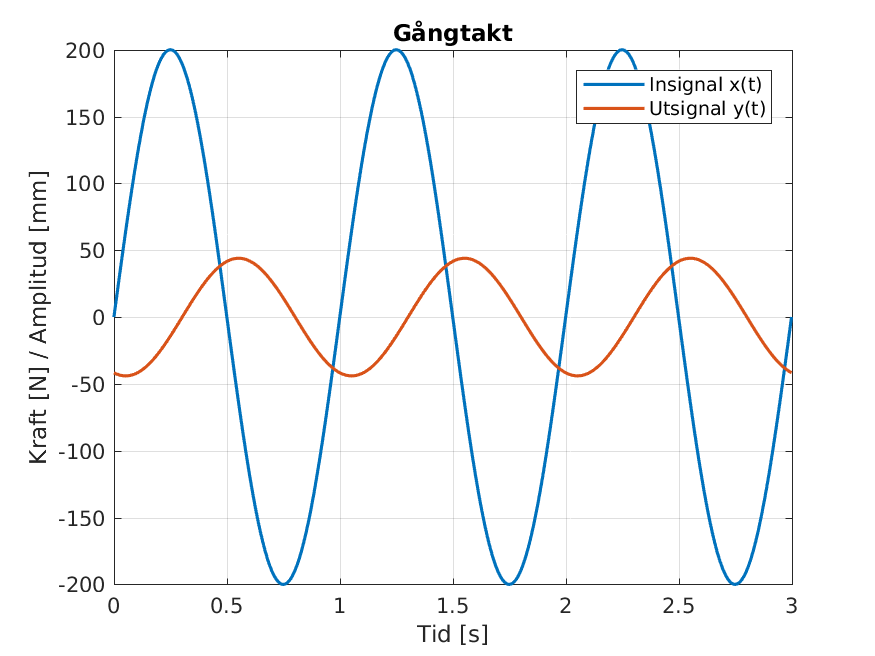
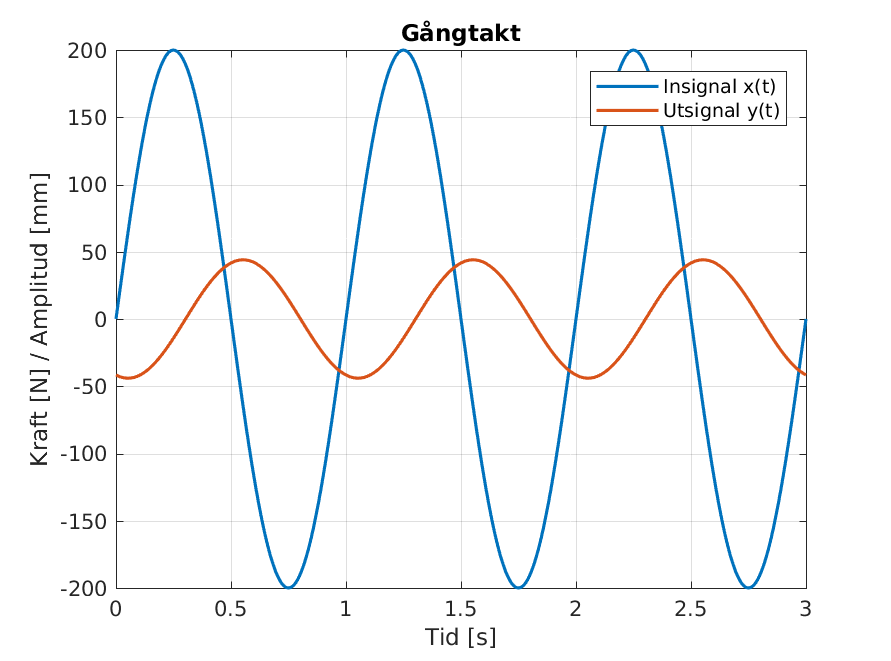
Amplitudskit, sinus, diskussion

diff --git a/kapitel/2.tex b/kapitel/2.tex
@@ -97,7 +97,7 @@ Enhetsimpulsen är noll för alla värden $t\ne 0$. Vid $t = 0$ är den oändlig
 Impulssvaret $h(t)$ är utsignalen då ett system tar emot en enhetsimpuls som insignal. Denna kan räknas ut genom att inverstransformera systemfunktionen $H(s)$. Vi kommer återigen att använda tabeller för dessa beräkningar då integralerna är jobbiga att räkna ut. Man får istället problemet att skriva om uttrycken så att de matchar något i tabellen. Då det finns tre uppsättningar av poler kommer implussvaret för dessa räknas ut separat.
 
 \begin{itemize}
-    \item Vid 2 skilda reella poler kan vi faktorisera rötterna i nämnarpolynomet och partialbråksuppdela för att hitta en lämplig inverstransform.
+    \item Vid två skilda reella poler kan vi faktorisera rötterna i nämnarpolynomet och partialbråksuppdela för att hitta en lämplig inverstransform.
     
     $$H(s)=\frac{1}{m} \cdot \frac{1}{s^2+\frac{cs}{m}+\frac{k}{m}}=\Bigg/ \,\alpha=\frac{c}{2m}\,\,,\,\,\, \omega_0=\sqrt{\bigg(\frac{c}{2m}\bigg)^2-\frac{k}{m}} \,\,\Bigg/$$
     $$=\frac{1}{m} \cdot \frac{1}{\big(s+\alpha-\omega_0\big)\big(s+\alpha+\omega_0\big)}  = \, \frac{1}{2m\omega_0} \Bigg(\frac{1}{s+\alpha-\omega_0}-\frac{1}{s+\alpha+\omega_0}\Bigg)$$
@@ -297,22 +297,25 @@ Vi ser att systemet släpper igenom låga frekvenser och dämpar höga frekvense
 Då vi har olika enheter på insignal och utsignal, en kraft respektive en längd, är det svårt att tolka hur mycket som faktist förstärks eller dämpas vid en viss vinkelfrekvens (\textbf{detta behvöer inte nämnas}). Vi kan utifrån grafen se att gränsvinkelfrekvensen är ungefär $2.5$ rad/s, alltså då:
 $$\big|H(\omega)\big|=\dfrac{max\Big\{\big|H(\omega)\big|\Big\}}{\sqrt{2}}\approx \frac{7}{\sqrt{2}} \approx 5$$
 \newpage
-\textbf{Ehhhh förslag: hoppa över de två första graferna och ta bara den med c. Anledning? Det finns inte så mycket att prata om som inte redan sagts samt sidobrist}
-
+\subsubsection{Variation av amplitudkaraktäristiken}
+Vi ska nu undersöka hur amplitudkaraktäristiken beter sig med olika parameteruppsättningar. Först kollar vi vad som händer då massan ändras.
 \begin{figure}[H]
     \centering
     \includegraphics[scale=0.9]{bilder/amplitudkaraktaristik_variation_m}
     \caption{Amplitudkaraktäristik med varierande massa}
     \label{fig:amplitudkaraktaristik_variation_m}
 \end{figure}
+Vi ser att en tyngre massa leder en skarpare kurva. Vill man ha högre amplituder vid låga och normala frekvenser ska man ha en stor vikt. Detta verkar rimligt då en större person är svårare att accelerera men svänger mer då den får upp fart.
 
 \newpage
+Sedan prövas i figuren nedan vad som händer med amplitudkaraktäristiken då fjäderkonstanten ändras mellan låga och högra värden. 
 \begin{figure}[H]
     \centering
     \includegraphics[scale=0.9]{bilder/amplitudkaraktaristik_variation_k}
     \caption{Amplitudkaraktäristik med varierande fjäderkonstant}
     \label{fig:amplitudkaraktaristik_variation_k}
 \end{figure}
+Här ser vi hur fjäderkonstanten har en direkt koppling till amplituden vid låga frekvenser. Ju lösare linan är spänd desto högre vill linan svänga. Detta jämnas ut vid cirka  $5$ rad/s då fjäderkonstanten inte längre verkar spela någon roll. Detta är på grund av lägesförändringen blir väldigt liten vid hög frekvens och fjädern motverkar ju läget.
 
 \newpage
 Härnäst kommer vi hur se hur amplitudkaraktäristiken beter sig när dämpningskonstanten ändras. Igen väljer vi att halvera och dubblera konstanten vilket visas i figuren nedan.  
@@ -327,13 +330,13 @@ Vi ser generellt att en högre dämpningskonstant dämpar mer för alla frekvens
 \newpage
 \subsection{Faskaraktäristik}
 Faskaraktäristiken beskriver hur mycket systemet förskjuter en signal i fas beroende på frekvensen. Denna kan tas fram genom att ta argumentet för frekvensfunktionen enligt:
-$$arg\big\{H(w)\big\}=\arg\big\{1\big\}-\arg\big\{k-m\omega^2+jc\,\omega\big\}$$
-$$=\begin{cases}
+\\$$\begin{aligned}arg\big\{H(w)\big\}=\arg\big\{1\big\}-\arg\big\{k-m\omega^2+jc\,\omega\big\}
+=\begin{cases}
 -\arctan\bigg(\dfrac{c\,\omega}{k-m\omega^2}\bigg), & \text{om } k-m\omega^2 > 0  \\\\
 -\arctan\bigg(\dfrac{c\,\omega}{k-m\omega^2}\bigg)-\pi, & \text{om } k-m\omega^2 < 0 \\\\ 
 -\dfrac{\pi}{2}, & \text{om } k-m\omega^2 = 0 
-\end{cases}$$
-I grafen nedan visas faskaraktäristiken för vår standardparameteruppsättning.
+\end{cases}\end{aligned}$$
+\\I grafen nedan visas faskaraktäristiken för vår standardparameteruppsättning.
 \begin{figure}[H]
     \centering
     \includegraphics[scale=0.75]{bilder/faskaraktaristik}
@@ -351,23 +354,55 @@ När ett LTI-system matas med en godtycklig sinusfunktion som insignal, till exe
 $$x(t)=A\sin(\omega_0t)$$
 får vi en utsignal $y(t)$ som kan beräknas med hjälp av frekvensfunktionen $H(\omega)$ enligt:
 $$y(t)=A\,\big|H(\omega_0)\big|\sin\big(\omega_0t+\arg\big\{H(\omega_0)\big\}\big)$$
-Man får alltså att utsignalen är en amplitudskalad för fastförskjuten verision av insignalen.
+Man får alltså att utsignalen är en amplitudskalad och fastförskjuten verision av insignalen.
 Detta gör det väldigt lätt att beräkna utsignalen om insignalen är en sinusfunktion och frekvensfunktion är bestämd. Vi ska nu se hur vårt system reagerar på olika typer av sinusfunktioner med olika frekvenser.
 
-
---------------------------------------------------------------------
-
-analysera två stationära sinussignaler  med, för just ert system, väl valda/motiverade och intressanta frekvenser.
-
-Mina förslag: resonans och en vanligt gångtakt hos en lindansare (vi får pröva och se på videos). Alt. (resonans + hög frek + låg frek)
-\textbf{Ev. borde vil kolla på stegsvar med skalad input typ 10 eller 100 N in. 1 N är ju typ ingenting}
-
-Fråga Lasse?
-\subsubsection{Resonans}
-oh no vårt system har ingen responansfrekvens för att det är att lågpassfilter, man kan ändra detta genom att ändra systemparamterarna med det känns fel.
-
-\textbf{Njaeoea, g  ul i fig 16 och blå i fig 18 har resonanser och är lågpass. Vi saknar resonans pga sys.parametrarna, men inte för att det är ett LP}
 \subsubsection{Gångtakt}
+Den första frekvens som kommer analyseras är en som liknar takten som en riktig lindansare skulle gå i. Detta för att få en ungefärlig känsla över hur systemet svänger i ett verkligt scenario. Kraften en person påverkar linan med, utöver gravitationskraften, då denne går i jämn takt kan modelleras som en sinusvåg. När personen böjer sitt ben minskas tillfälligt kraften personer påverkar linan med och när personen sträcker ut sitt ben ökar kraften tillfälligt.
+
+Kraften personen påverkar linan med och vinkelfrekvensen måste apporoximeras. Kraften kan approximeras genom experiment då en person står på en våg och upprepat böjer på sina ben. Det visar sig att denna kraft är ungefär $200$ N. Vinkelfrekvensen kan också approximeras via experiment. Då vi prövade att gå i normaltakt fick vi en periodtid på cirka $1$ sekund. Genom vidare observationer av videoklipp av lindansare såg vi att detta stämde bra överrens med det vi kom fram till innan. Periodtiden kan användas för att bestämma vinkelfrekvensen enligt:
+$$\omega=2\pi f= \dfrac{2\pi}{T} \Longleftrightarrow \omega_0 = 2\pi$$
+Insignalen kan då skrivas som:
+$$x(t)=200\sin(2\pi t)$$
+Detta ger följande amplitudskalade och fasförskjutna utsignal:
+$$y(t)=200\,\big|H(2\pi)\big|\sin\big(2\pi t+\arg\big\{H(2\pi)\big\}\big)$$
+$$=\bigg/ \,\,\big|H(2\pi)\big|\approx 0.00022 \,,\,\,\, \arg\big\{H(2\pi)\big\}\approx -1.90  \,\bigg/$$
+$$\approx 0.044\sin(2\pi t - 1.90)$$
+
+\newpage
+Här nedan ses insignalen och utsignalen då personen går på linan. Notera att den blåa insignalen har enheten newton och röda utsignalen är i millimeter. 
+
+\begin{figure}[H]
+    \centering
+     \includegraphics[scale=0.9]{bilder/sinusfunktion_gangtakt}
+    \caption{Insignal och utsignal för gångtakten. $x(t)$ mäts i N och $y(t)$ i mm}
+    \label{fig:sinusfunktion_gangtakt}
+\end{figure}
+(tolkning)
+
+\newpage
+\subsubsection{Löptakt}
+Det är vanligt att lindansare inte bara går utan även springer fram på linan. Därför betraktar vi även hur vårt system beter sig vid löptakt. Precis som för gången kan kraften personen påverkar linan med modellas som en sinusfunktion. Då man springer trycker man ifrån linan mer än då man går så amplitud kommer att vara något högre. En rimlig approximation på sinusfunktionens amplitud är 250 N. Dessutom kommer frekvensen att vara högre. Videoklipp där lindansare springer fram på linan visar att en vanlig takt är tre till fyra steg per sekund. Vi väljer att betrakta fallet då personen tar tre steg per sekund. Periodtiden blir då $\sfrac{1}{3}$ sekund.
+$$\omega_0 = \dfrac{2\pi}{T} = 6\pi$$
+
+Vilket ger den sinusformade insignalen:
+$$x(t) = 250\sin(6\pi t)$$
+
+Likt innan blir utsignalen amplitudskalad och fasförskjuten. Utsignalen blir:
+$$y(t)=250\,\big|H(6\pi)\big|\sin\big(6\pi t+\arg\big\{H(6\pi)\big\}\big)$$
+$$=\bigg/ \,\,\big|H(6\pi)\big|\approx 0.000035 \,,\,\,\, \arg\big\{H(6\pi)\big\}\approx -2.66  \,\bigg/$$
+$$\approx 0.00875\sin(6\pi t - 2.66)$$
+
+
+\newpage
+
+\begin{figure}[H]
+    \centering
+     \includegraphics[scale=0.9]{bilder/sinusfunktion_loptakt}
+    \caption{Insignal och utsignal för löptakten. $x(t)$ mäts i N och $y(t)$ i mm}
+    \label{fig:sinusfunktion_loptakt}
+\end{figure}
+springer snabbt pga att skapa mindre svängningar.
 
 \newpage
 \subsection{SAKER SOM SKA KOLLAS DÅ ALLT ÄR KLART}

diff --git a/kapitel/3.tex b/kapitel/3.tex
@@ -1,17 +1,23 @@
-
-Frågor som man kan diskuteras:
-\begin{itemize}
-    \item Vilka antaganden har gjorts? Hur väl stämmer vår modell överrens med verkligheten?
-    \item Varför studerade vi inte rampsvar? (kändes att som de inte var relevant för vårt system)
-    \item Varför studerades bara variation av dämpningskonstanten för amplitudkaraktäristiken? (de andra graferna gav inte så mycket som inte redan har sagts/platsbrist)
-    \item Tycker vi att vi har fått rimliga figurer/systemegenskaper i förhållande till den verkliga scenariot?
-    \item Hur skulle vi kunna jämföra våra resultat med verkligheten?
-    (Om vi hade resuser kunde vi använda experiment)
-    \item 
-\end{itemize}
+(här bör vi ha en inledning om vi vill dela upp detta i kapitel)
 
 
-I denna rapport har vi jämfört hur olika system beter sig beroende på olika systemparametrar. Detta system är en modell av verkligheten ...
+\subsection{Kraftförenkling}
+\textbf{(kommer aldrig ihåg att detta var ett problem...). Jo, fast var inte förenklingar av krafter. Det var bara en banal del i framtagandet av modellen som vi inte gjorde korrekt från början.}
 
-(ang. rampsvar)
-inte gav så mycket som inte redan hade sagts med impulssvaret och stegsvaret eller som kunde sägas på variationen av dämpningskonstanten. 
+För att kunna skapa ett system måste man förenkla alla krafter och modellera dem tillsammans. Vi stötte på problem då vi inte fick vår modellerade lina att sluta oscillera. Vi ville inte använda oss av luftmotstånd som vår dämpningskraft då vi ville hålla vårt system simpelt. Vi prövade sedan att dela upp friktionskraften i sina komposanter, detta fungerade tillslut och modellerade systemet bra. Vad man kan lära sig av detta är att det är viktigt att förenkla systemet men ju mer man förenklar desto mer information förloras. Det är viktigt att hitta en medelpunkt där man tar med så få faktorer som möjligt men fortfarande får ut den infomationen man behöver.
+
+\subsection{Uteslutning av rampsvar}
+
+
+\subsection{Dämpningskontantens enhet}
+\textbf{(Detta är ett litet problem som vi löste, det är inget som ses när läsaren går igenom rapporten och undrar över och därför behövs detta inte diskuteras)}
+
+I kapitel två skulle vi välja passande systemparametrar till vårt system. Bland dessa fanns dämpningkonstanten inkluderad. Då dess enhet inte direkt är uppenbar spekulerade vi att den kunde vara enhetslös. Då detta kändes underligt senare i rapporten valde vi att genomföra en enhetsanalys som producerade enheten kilogram per sekund. Detta kändes underligt men även rimligt om man såg det som att dämpning uttrycks i mängden kilogram som hålls tillbaka per sekund.
+
+\subsection{Variation av konstanter för amplitudkaraktäristiken}
+När vi redogjorde för vårt systems amplitudkaraktäristik i kapitel 2 valde vi även att undersöka vad som händer om vi varierar dämpningskonstanten. På samma sätt hade vi kunnat variera massan och fjäderkonstanten för att visa hur amplitudkaraktäristiken varierar då. Vi valde att inte göra detta då vi såg att detta inte gav några särdeles intressanta resultat.
+
+\subsection{Jämförelse med verkligheten}
+\textbf{Vi kan dock få en känsla om våra resultat är rimliga eller inte...}
+
+Det skulle vara intressant att ta reda på hur väl våra presenterade resultat överensstämmer med verkligheten. Detta då det skulle ge oss en bra bild över hur väl vårt system representerar det verkliga scenariot som vi försöker modellera. Tyvärr har det inte varit möjligt att omfatta det i denna rapport då vi inte har haft tillgång till de resurserna som skulle krävas för det.

diff --git a/main.tex b/main.tex
@@ -9,7 +9,6 @@
 \usepackage{amssymb} % Ditto
 \usepackage{bm} % Bold in math
 \usepackage[parfill]{parskip} % Tar bort automatisk intendering vid nytt stycke
-\usepackage{enumitem} % Enum
 \setlength{\parskip}{1.2em} % Avstånd mellan stycken
 \usepackage[a4paper, total={15cm, 21cm}]{geometry} % Ändrar sidobredd samt höjd
 %\usepackage[none]{hyphenat} 
@@ -20,6 +19,7 @@
 \emergencystretch=\maxdimen
 \hyphenpenalty=10000
 \hbadness=10000
+\usepackage{xfrac}
 
 \usepackage{float} % Fixa så bilder hamnar där de ska
 
